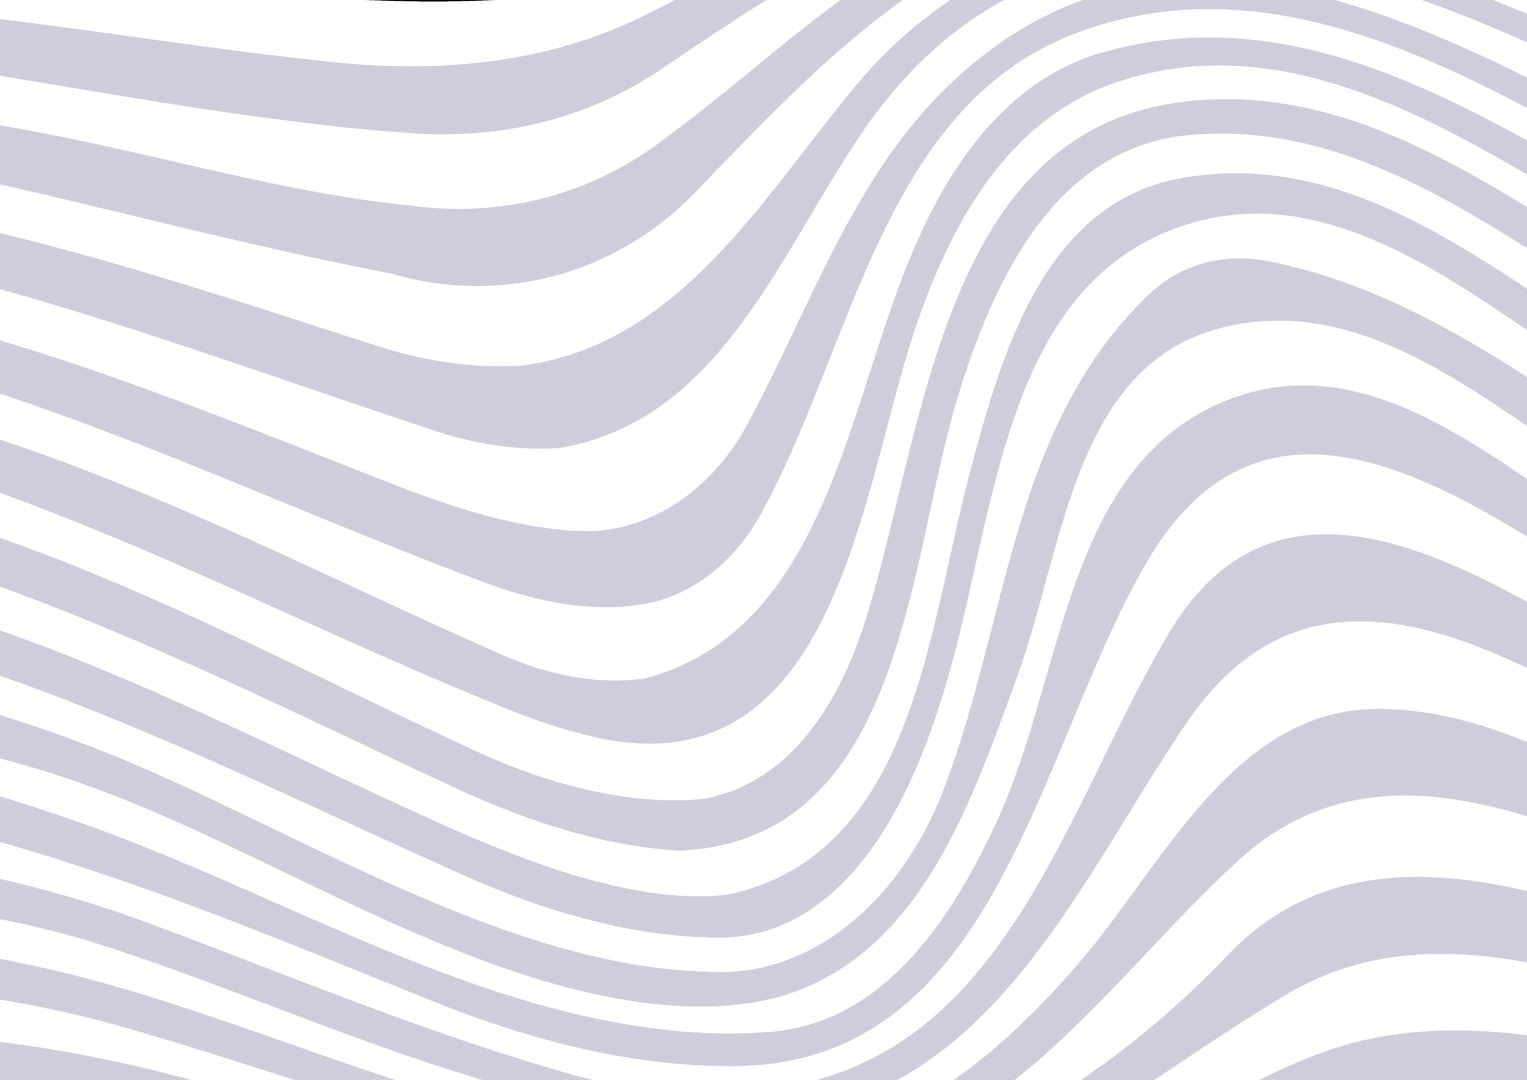
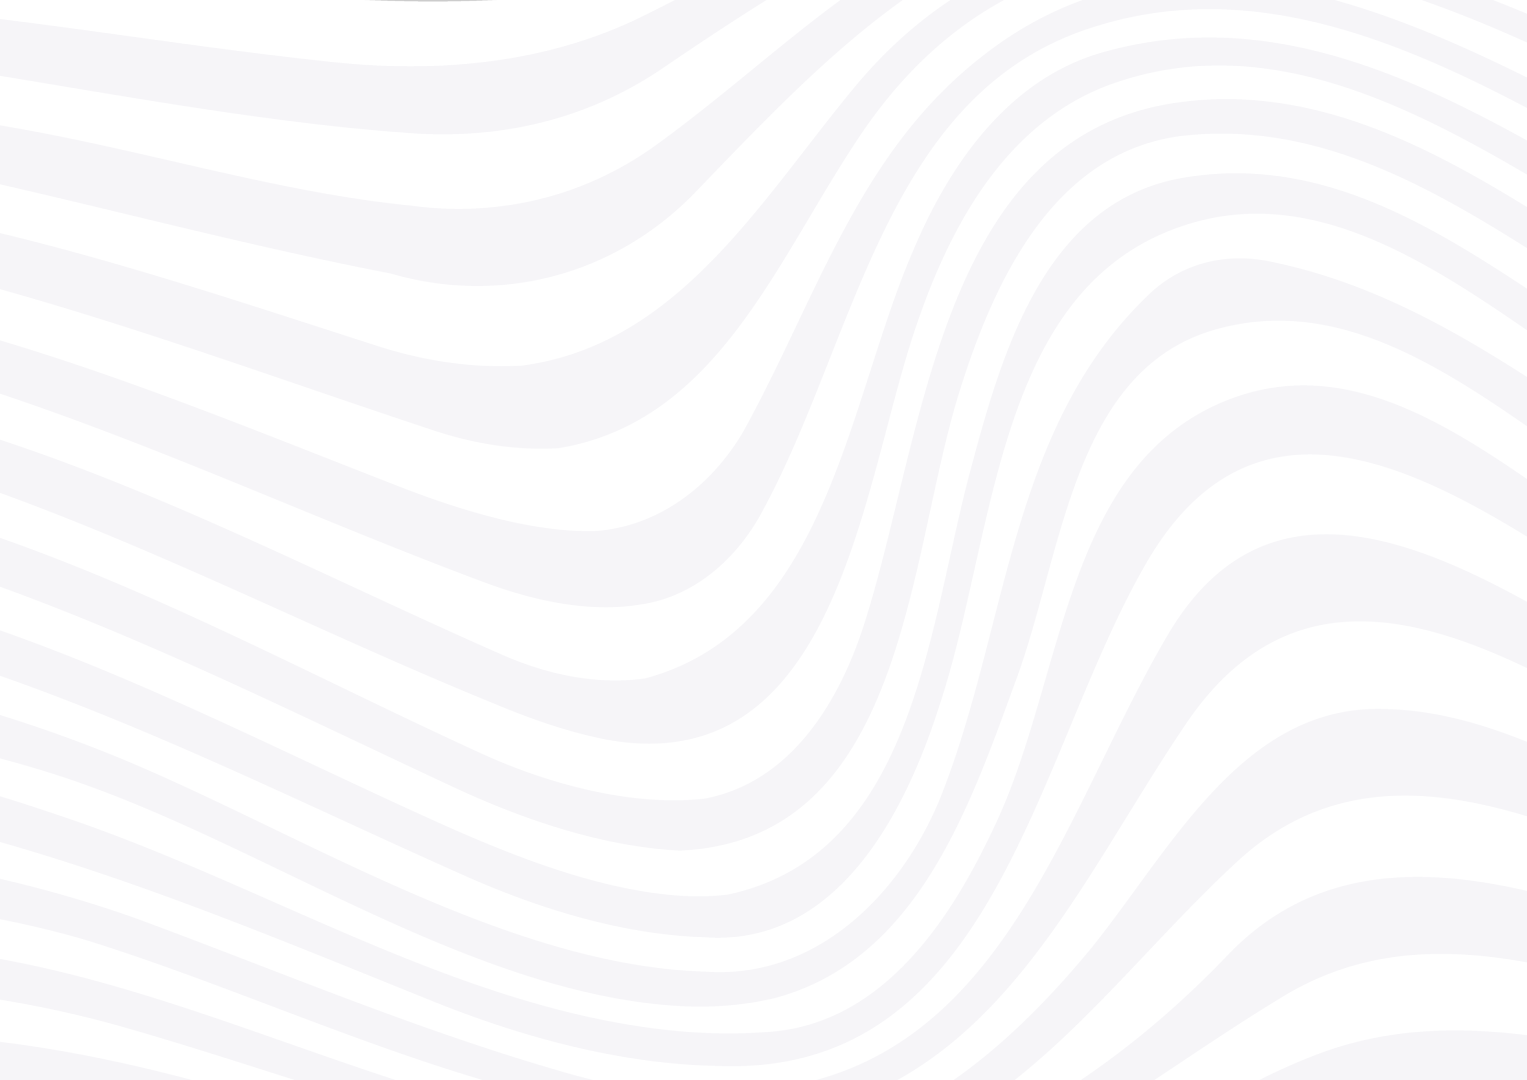
bcp de style + modifs du popup + modif fond connexion

diff --git a/html/style.css b/html/style.css
@@ -1573,6 +1573,31 @@ header ul + div {
   background-color: var(--text-dark25);
 }
 
+
+
+/* popup signalement avis */
+
+
+.avis > .modal h2{
+  width: 100%;
+}
+
+.avis > .modal input[type="checkbox"] + label{
+  width: 100%;
+}
+
+
+.avis > .modal textarea{
+  width: 100%;
+  resize: none;
+  height: 200px;
+  font-size: 16px;
+}
+
+
+/* fin popup signalement avis */
+
+
 /* ~~~~~~~~~~~~~~~~~~~~~~~~~~~~~~~~~~~~~~~~~~~~~~~~~~~~~~~~~~~~~~~~~~~~~~~~~~~~~~~~~~~~~~~
      ~~~~~~~~~~~~~~~~~~~~~~~~~~~~~~~~~FIN CSS EWEN~~~~~~~~~~~~~~~~~~~~~~~~~~~~~~~~~~~~~~~~~~
      ~~~~~~~~~~~~~~~~~~~~~~~~~~~~~~~~~~~~~~~~~~~~~~~~~~~~~~~~~~~~~~~~~~~~~~~~~~~~~~~~~~~~~~~*/

diff --git a/html/detailsOffer.php b/html/detailsOffer.php
@@ -953,6 +953,28 @@ $avis = $stmt->fetchAll(PDO::FETCH_ASSOC);
                                     ?>
                                 </div>
                             </div>
+
+                            <!-- Pop-up de signalement d'un avis -->
+                            <section class="modal">
+                                <section class="modal-content">
+                                    <span class="close">&times;</span>
+                                    <h2>Signalement d'un avis</h2>
+                                    <form action="signaleAvis.php">
+                                        <input type="radio" name="signalement" id="inapproprie">
+                                        <label for="">Contenu inapproprié (injures, menaces, contenu explicite...)</label>
+                                        <input type="radio" name="signalement" id="frauduleux">
+                                        <label for="">Avis frauduleux ou trompeur (faux avis, publicité déguisée...) </label>
+                                        <input type="radio" name="signalement" id="spam">
+                                        <label for="">Spam ou contenu hors-sujet (multipostage, indésirable...)</label>
+                                        <input type="radio" name="signalement" id="violation">
+                                        <label for="">Violation des règles de la plateforme (données personnelles...)</label>
+                                        <textarea name="motifSignalement" id="motifSignalement" maxlength="499" placeholder="Si vous le souhaitez, détaillez la raison de ce signalement"></textarea>
+                                        <input type="submit" value="confirmeSignelement" id="confirmBtn">
+                                    </form>
+                                </section>
+                            </section>
+
+
                         </div>
                     <?php
                     }
@@ -1320,6 +1342,36 @@ $avis = $stmt->fetchAll(PDO::FETCH_ASSOC);
 
             /** fin script chargement composant */
         } catch {}
+
+
+        //Script de gestion du pop-up de signalement
+        const ouvrePopup = document.getElementById('signalerAvis');
+        const popup = document.getElementsByClassName('modal')[1];
+        const btnFermer = document.getElementsByClassName('close')[1];
+        const btnConfirmer = document.getElementById('confirmBtn');
+
+        // Afficher le pop-up
+        ouvrePopup.addEventListener('click', () => {
+            popup.style.display = 'block';
+        });
+
+        // Masquer le pop-up lorsque l'on clique sur le bouton de fermeture
+        btnFermer.addEventListener('click', () => {
+            popup.style.display = 'none';
+        });
+
+        // Masquer le pop-up après confirmation
+        btnConfirmer.addEventListener('click', () => {
+            alert('Signalement enregistré');
+            popup.style.display = 'none';
+        });
+
+        // Masquer le pop-up si on clique en dehors de son contenu
+        window.addEventListener('click', (event) => {
+            if (event.target === popup) {
+                popup.style.display = 'none';
+            }
+        });
     </script>
     <script src="js/setColor.js"></script>
 </body>

diff --git a/html/components/avis/avisPro.php b/html/components/avis/avisPro.php
@@ -166,24 +166,6 @@ $avis = $avisTemp;
     </section>
 </div>
 
-<section class="modal">
-    <section class="modal-content">
-        <span class="close">&times;</span>
-        <h2>Signe allemand d'un avis</h2>
-        <form action="signaleAvis.php">
-            <input type="radio" name="signalement" id="inapproprie">
-            <label for="">Contenu inapproprié (injures, menaces, contenu explicite...)</label>
-            <input type="radio" name="signalement" id="frauduleux">
-            <label for="">Avis frauduleux ou trompeur (faux avis, publicité déguisée...) </label>
-            <input type="radio" name="signalement" id="spam">
-            <label for="">Spam ou contenu hors-sujet (multipostage, indésirable...)</label>
-            <input type="radio" name="signalement" id="violation">
-            <label for="">Violation des règles de la plateforme (données personnelles...)</label>
-            <textarea name="motifSignalement" id="motifSignalement" placeholder="Motif du signelement"></textarea>
-        </form>
-        <button id="confirmBtn">Confirmer</button>
-    </section>
-</section>
 
 
 
@@ -601,36 +583,6 @@ function displayStar(note) {
   }
   return container;
 }
-
-
-// Sélection des éléments
-const ouvrePopup = document.getElementById('signalerAvis');
-const popup = document.getElementsByClassName('modal')[1];
-const btnFermer = document.getElementsByClassName('close')[1];
-const btnConfirmer = document.getElementById('confirmBtn');
-
-// Afficher le pop-up
-ouvrePopup.addEventListener('click', () => {
-    popup.style.display = 'block';
-});
-
-// Masquer le pop-up lorsque l'on clique sur le bouton de fermeture
-btnFermer.addEventListener('click', () => {
-    popup.style.display = 'none';
-});
-
-// Masquer le pop-up après confirmation
-btnConfirmer.addEventListener('click', () => {
-    alert('Confirmation enregistrée.');
-    popup.style.display = 'none';
-});
-
-// Masquer le pop-up si on clique en dehors de son contenu
-window.addEventListener('click', (event) => {
-    if (event.target === popup) {
-        popup.style.display = 'none';
-    }
-});
 
 
 </script>
